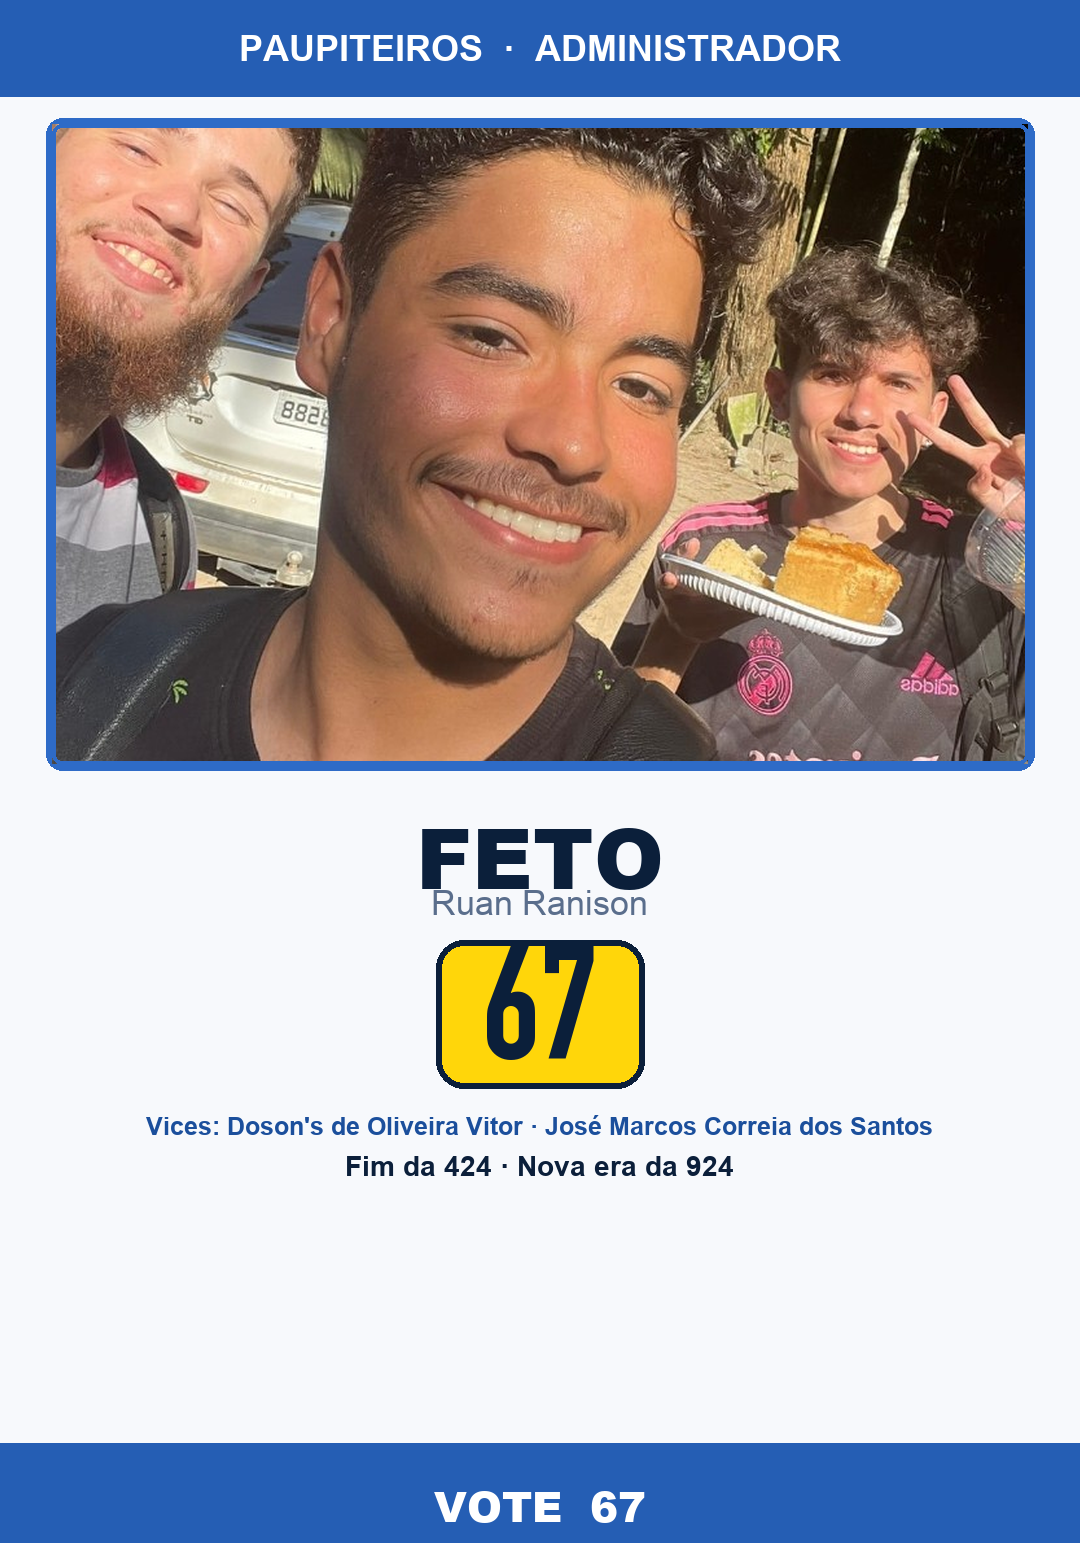
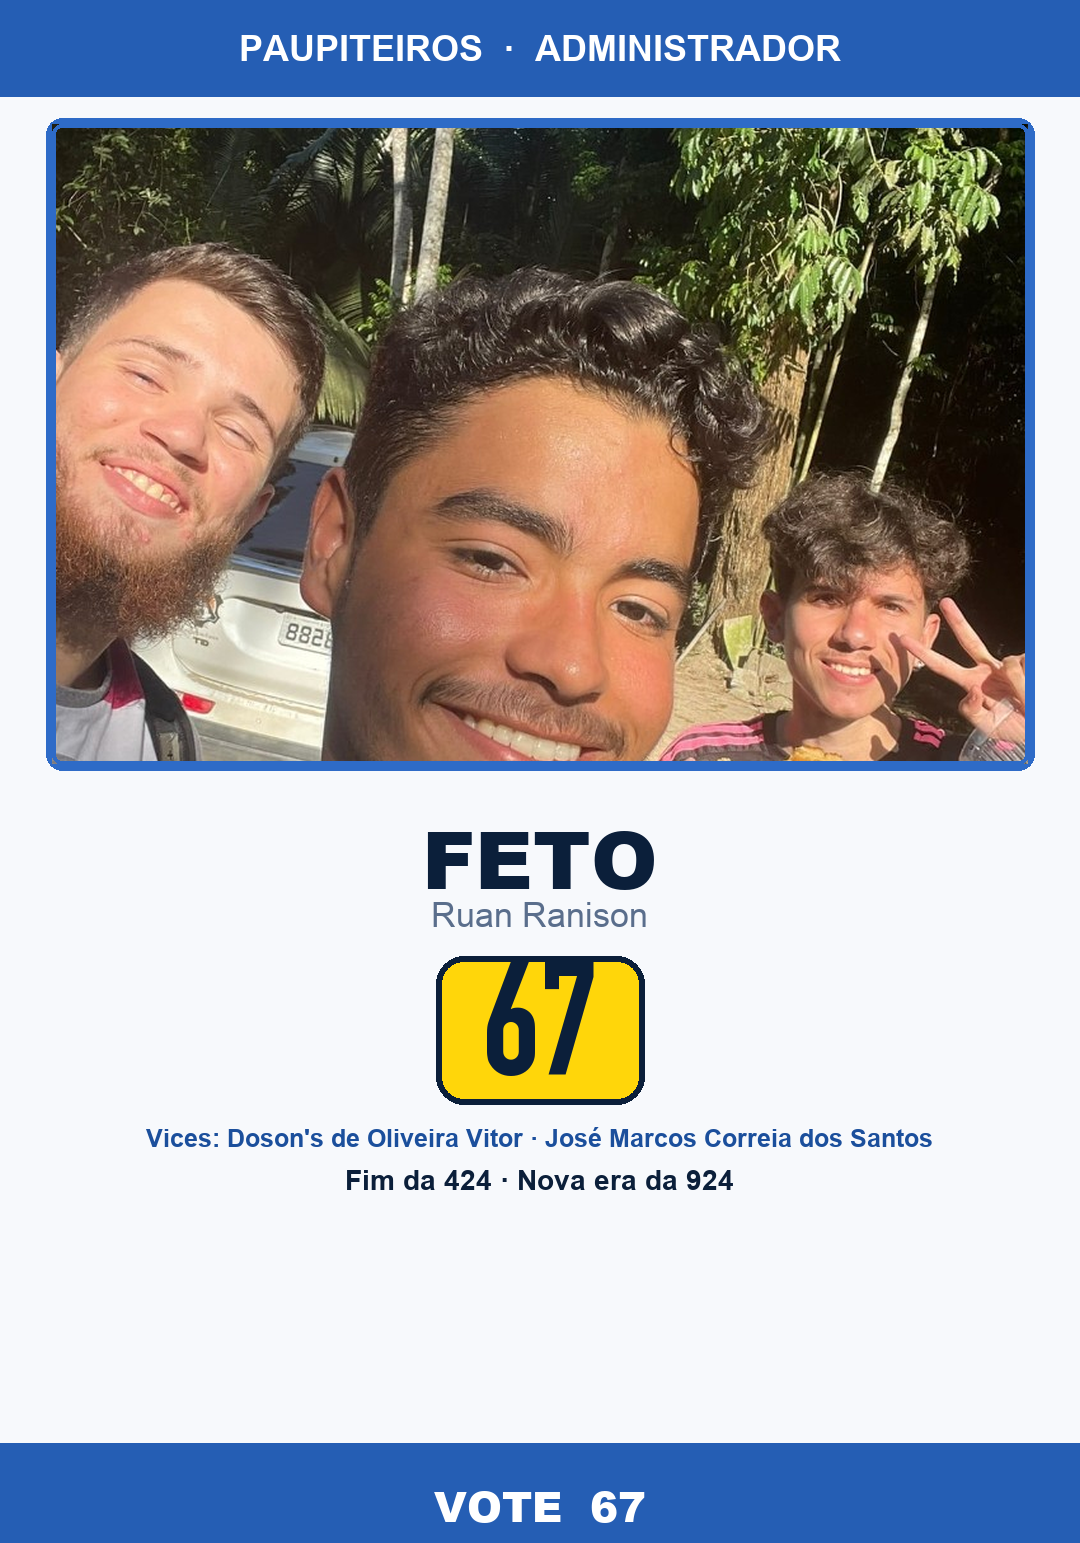
fix: enquadrar trio completo e espaçamento do nome nos santinhos

diff --git a/scripts/gerar_santinhos.py b/scripts/gerar_santinhos.py
@@ -130,11 +130,11 @@ def make_frente(photo_path: Path, out_path: Path, *, nova: bool):
     photo_h = 640 if nova else 680
     pw, ph = W - 2 * margin, photo_h
     if nova:
-        # Grupo inteiro visível; sobe um pouco os rostos na moldura
-        crop = face_crop(photo, pw, ph, focus=(0.50, 0.52), zoom=1.02, anchor=0.42)
+        # Trio completo: começa perto do topo da foto (não cortar testa)
+        crop = face_crop(photo, pw, ph, focus=(0.50, 0.34), zoom=1.0, anchor=0.40)
     else:
-        # Solo: close sem cortar testa/queixo
-        crop = face_crop(photo, pw, ph, focus=(0.50, 0.46), zoom=1.22, anchor=0.32)
+        # Solo: leve close, testa e ombros visíveis
+        crop = face_crop(photo, pw, ph, focus=(0.50, 0.40), zoom=1.08, anchor=0.34)
 
     frame = (margin - 6, photo_top - 6, margin + pw + 6, photo_top + ph + 6)
     draw.rounded_rectangle(frame, radius=16, fill=WHITE, outline=BLUE_BRIGHT, width=7)
@@ -147,18 +147,17 @@ def make_frente(photo_path: Path, out_path: Path, *, nova: bool):
         width=4,
     )
 
-    # Bloco de texto com respiros fixos e equilibrados
-    y = photo_top + ph + 32
-    center_text(draw, "FETO", y, fnt(F_BLACK, 84), NAVY)
-    y += 88
+    # Bloco de texto — passos fixos (evita overlap de fontes)
+    y = photo_top + ph + 36
+    center_text(draw, "FETO", y, fnt(F_BLACK, 80), NAVY)
+    y += 96
     center_text(draw, "Ruan Ranison", y, fnt(F_REG, 34), MUTED)
-    y += 52
+    y += 56
 
     number_badge(draw, W // 2, y + 78, size=168)
-    y += 168
+    y += 172
 
     if nova:
-        y += 8
         y = wrap_center(
             draw,
             "Vices: Doson's de Oliveira Vitor  ·  José Marcos Correia dos Santos",
@@ -168,13 +167,11 @@ def make_frente(photo_path: Path, out_path: Path, *, nova: bool):
             W - 100,
             gap=4,
         )
-        y += 14
+        y += 16
         wrap_center(draw, "Fim da 424  ·  Nova era da 924", y, fnt(F_BOLD, 28), NAVY, W - 100)
     else:
-        y += 12
         center_text(draw, "Presença, regra e grupo", y, fnt(F_BOLD, 30), BLUE)
-        y += 48
-        # faixa amarela para equilibrar o espaço (eco do verso)
+        y += 52
         draw.rounded_rectangle((140, y, W - 140, y + 64), radius=14, fill=YELLOW, outline=NAVY, width=4)
         center_text(draw, "MEMORIZE:  67", y + 14, fnt(F_BLACK, 36), NAVY)
 
